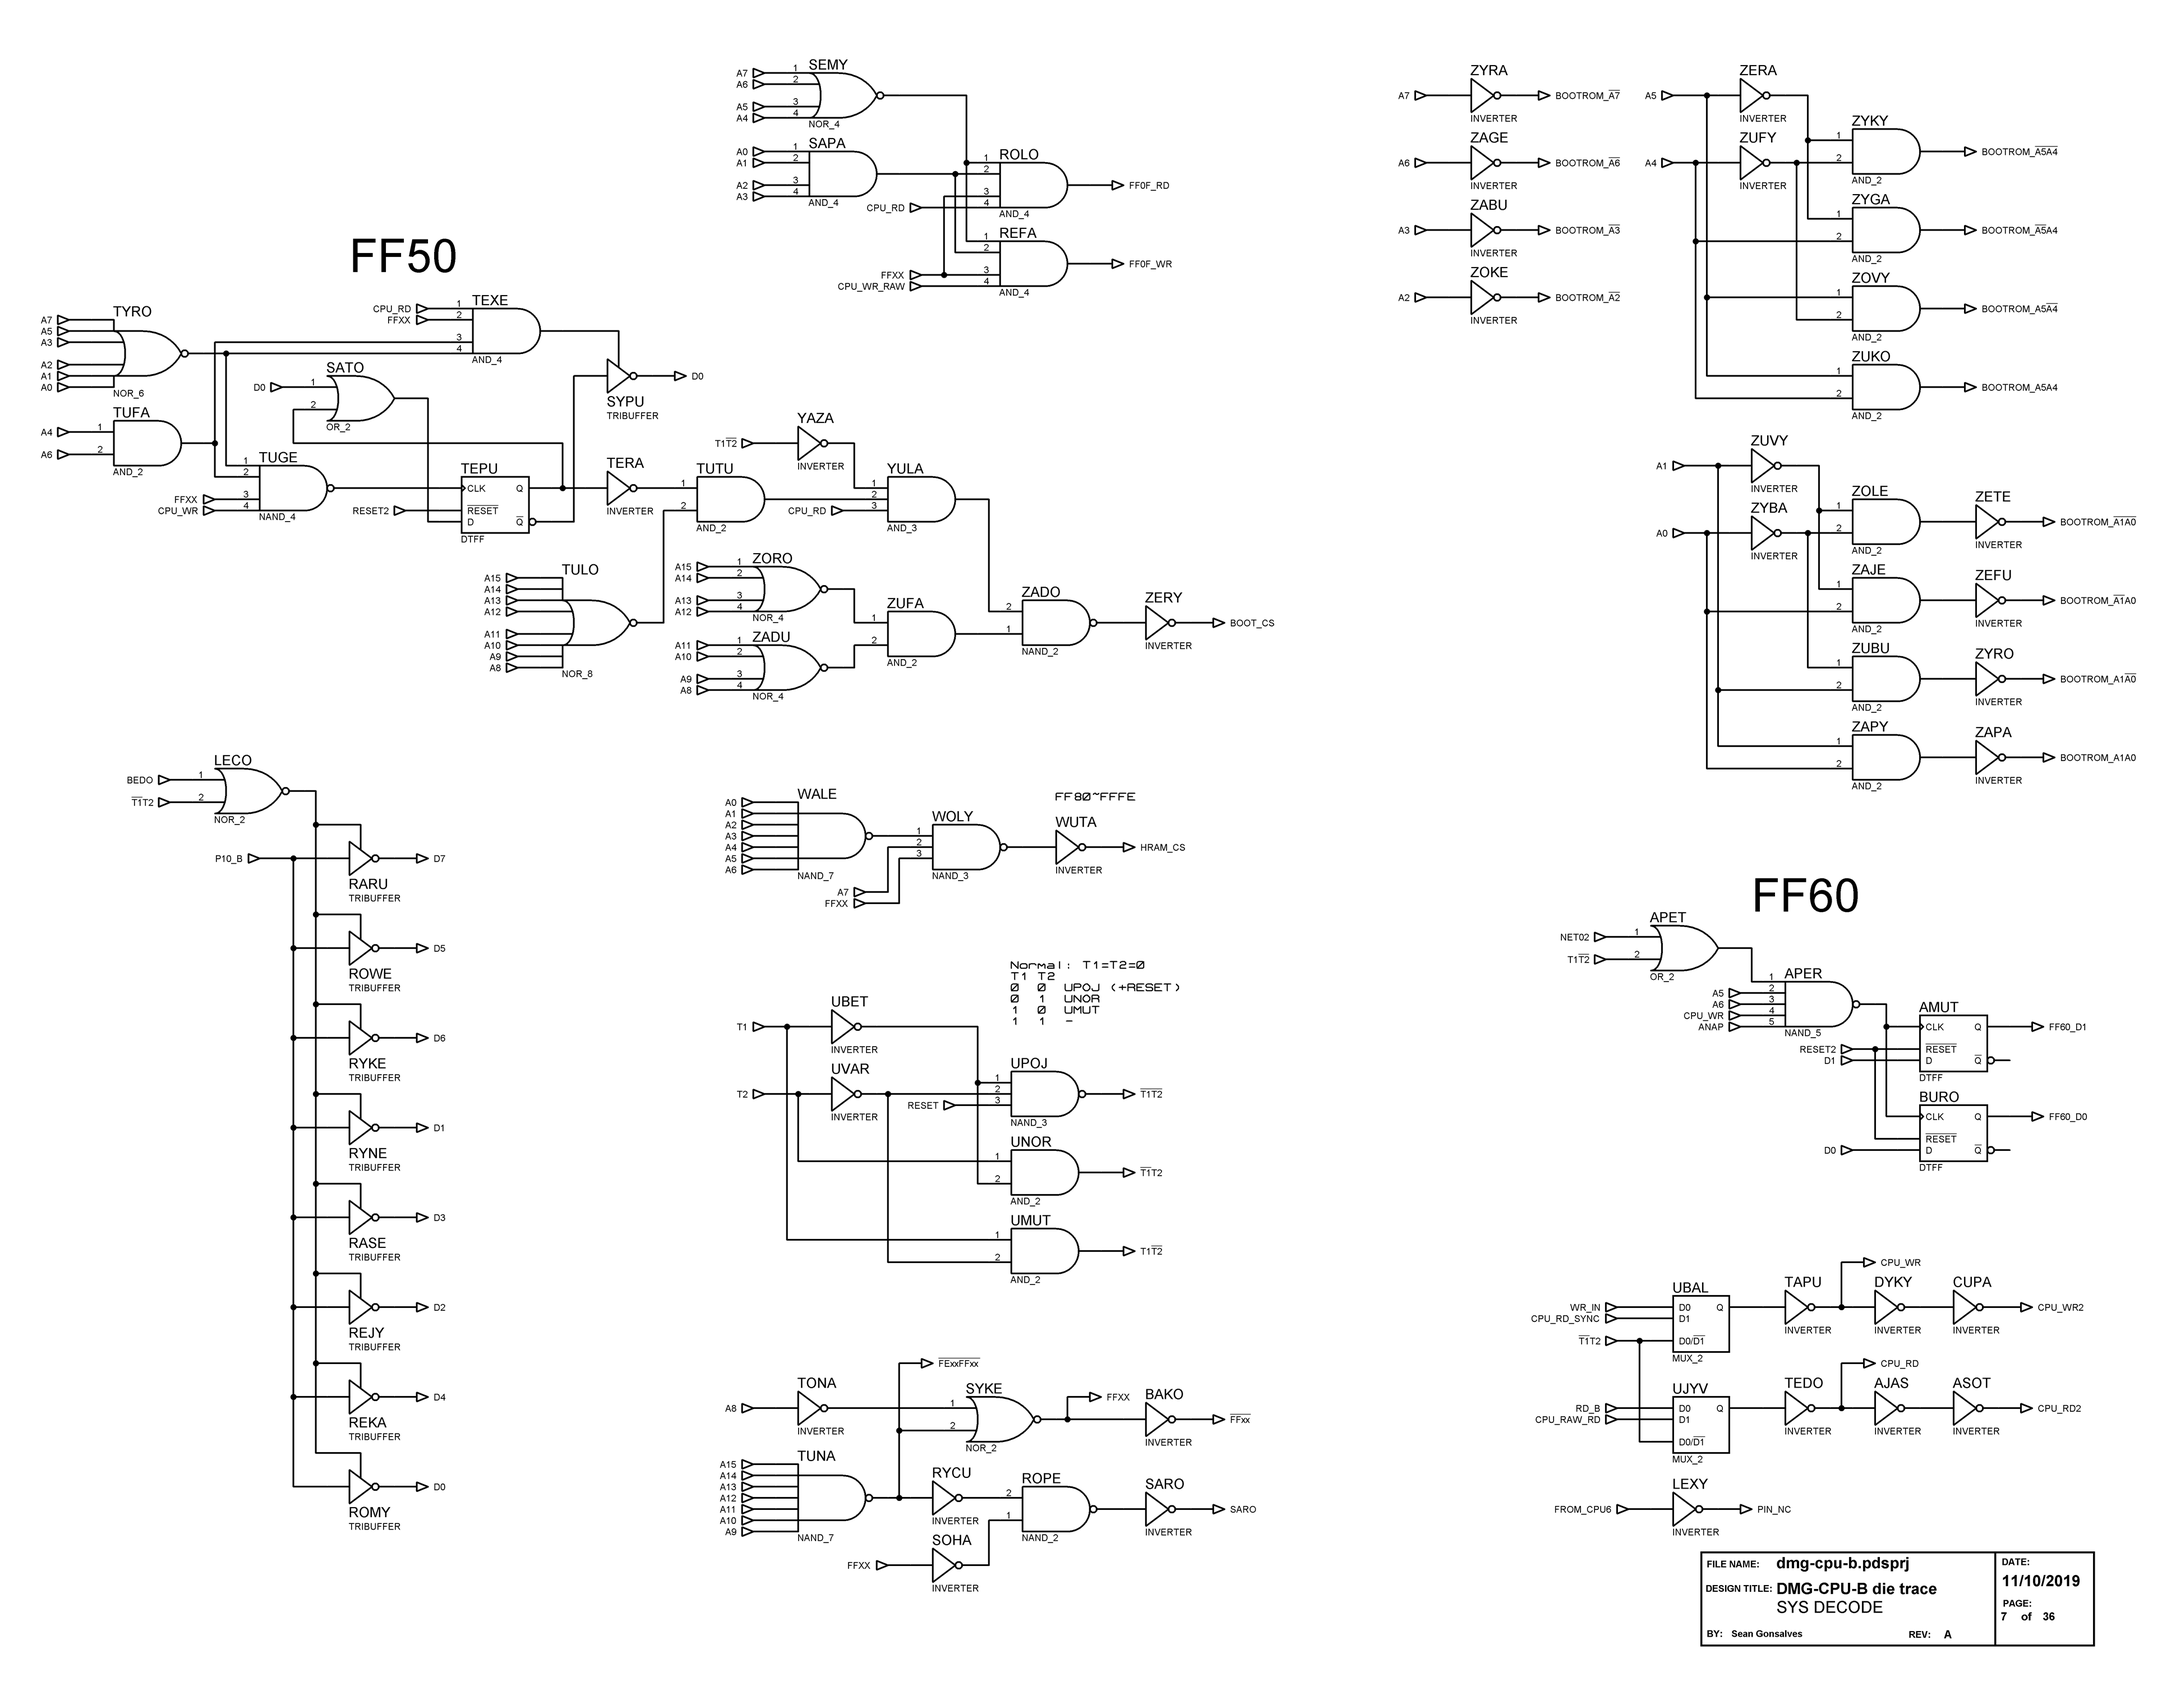
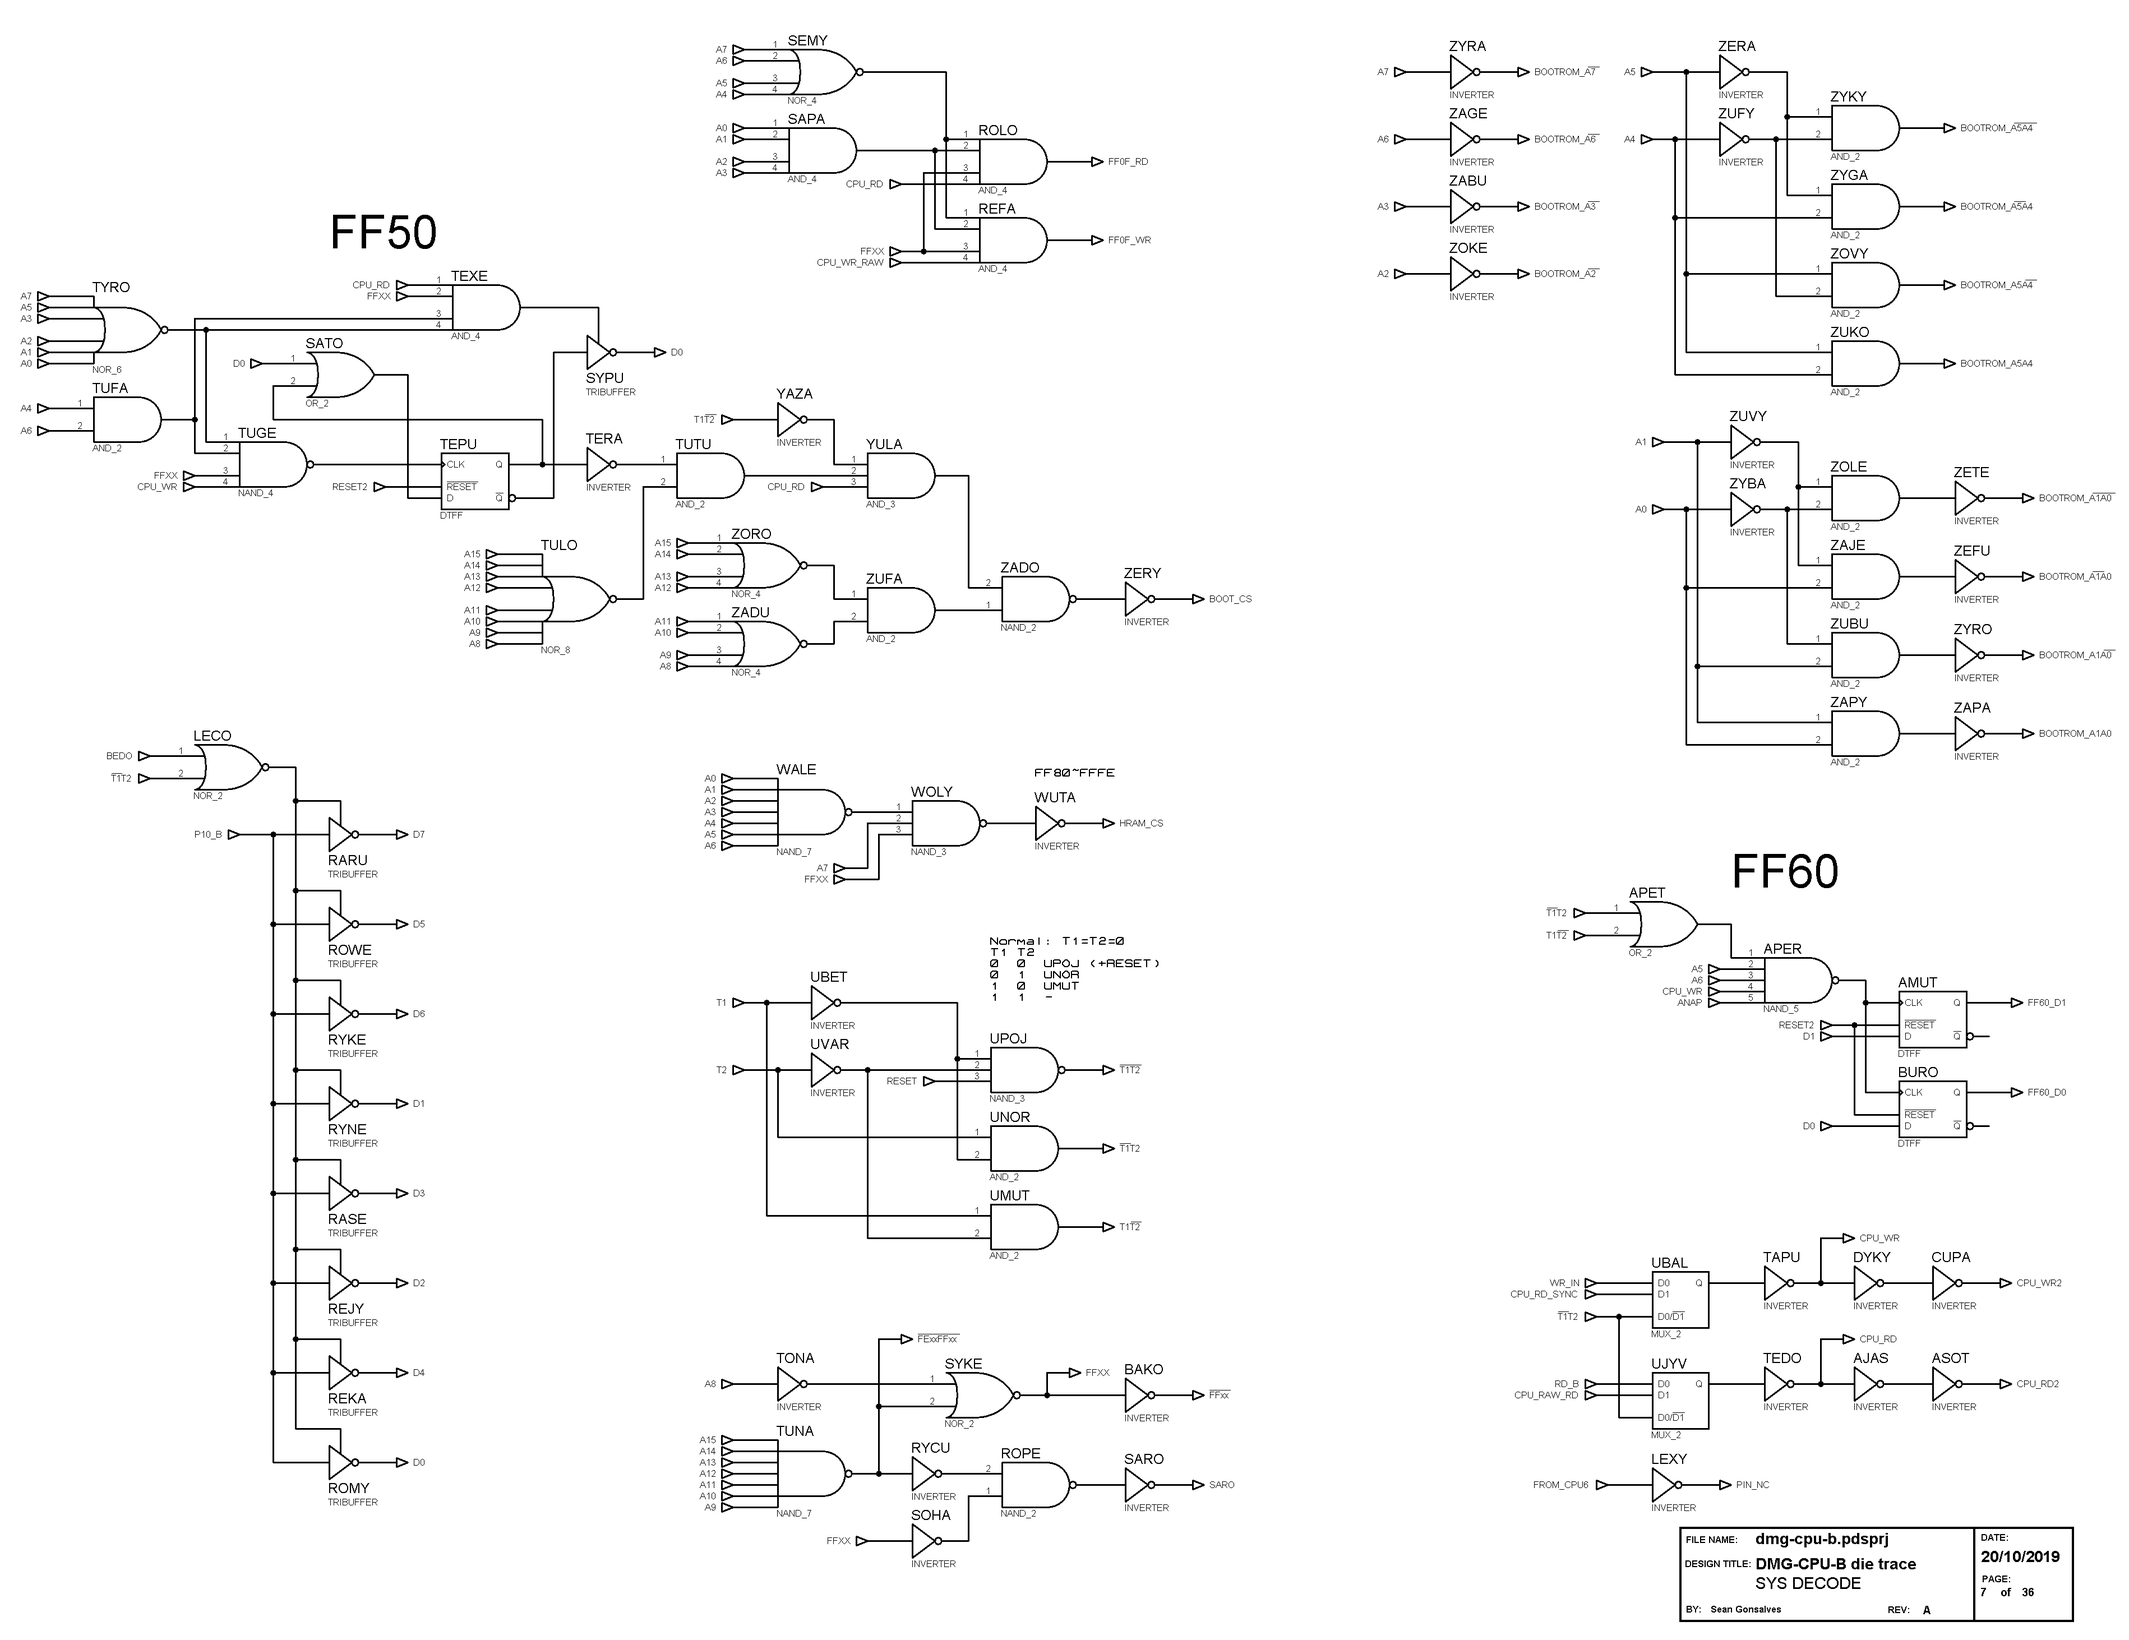
Merged NET02 with /T1 T2, thanks aappleby Renamed some nets related to interrupts Added README for cells

diff --git a/README.md b/README.md
@@ -20,20 +20,31 @@ This was done manually with only a few automated checks so **THERE'S A HIGH RISK
 * Some analog parts. Why: Poor visibility, lazyness.
 * Some cell groups related to embedded ROM and RAM blocks. Why: They don't affect functionality.
 
+# How to use
+
+Just read the schematics :)
+
+If you want to use the overlay:
+* Get [Inkscape](https://inkscape.org/)
+* Download the [die picture](http://siliconpr0n.org/map/nintendo/dmg-cpu-b/) from Digshadow
+* Resize it to 8000px wide if you're using Inkscape 0.92.2, otherwise it may freeze
+* Download the [SVG overlay](Overlay/dmg-cpu-b_overlay.zip)
+* Open the overlay in Inkscape, import the die picture (chose link, not embed), stick it under the overlay layers, align it and lock it in place
+* Have "fun"
+
 # Notes
 
-Nets named `FROM_CPU*` come out of the CPU core but are not identified. They might be state indicators like the Z80 /M1 or HALT.
+Nets named `FROM_CPU*` and `TO_CPU` are connected to the CPU core but are not clearly identified. Many of them are trigger and acknowledge signals for interrupts. Others might be state indicators like the Z80 /M1 or HALT.
 
 I'm not sure what the UNK2 and UNK3 cells are. UNK2 might be an AND or OR with higher output power. UNK3 looks like an AND or OR next to an inverter, maybe something like (A&B)|C.
 
 Some DFF clock polarities are unclear.
 
-The PISO shift registers used for the serial link and video rendering are made of chains of set-reset-capable DFFs.
-Their loading logic requires a lot of cells but don't be scared, in the end it forms something quite simple.
+The parallel-in-serial-out shift registers used for the serial link and video rendering are made of chains of set-reset-capable DFFs.
+Their loading logic require a lot of cells and seem complex, but in the end it forms something quite simple.
 
 Rather than using multiplexers, many internal busses are instead tri-state capable. The "TRIBUFFER" cells are extensively used for this.
 
-The whole chip can be made a slave for an external CPU by using the test pins. This was already discovered by @Gekkio and probably others.
 
 # Mysteries
 
@@ -42,6 +53,7 @@ The whole chip can be made a slave for an external CPU by using the test pins. T
   * Bit 5 allows software clocking of the CH1 sweep timer when NET03 is high.
 * Bit 0 of FF23 (NR44) can be read. It relates to the CH4 prescaler.
 * The current wave RAM address can be read in bits 4~0 of FF1C (NR32) when NET03 is high.
+* The whole chip can be made a slave for an external CPU by using the test pins. This was already discovered by @Gekkio and maybe others.
 * Probably other things I missed...
 
 # PAQ (Potentially Asked Questions)
@@ -50,10 +62,6 @@ The whole chip can be made a slave for an external CPU by using the test pins. T
 
 It is well known by emulator authors that the Game Boy is full of quirks. Knowing exactly how and when signals change can help reaching perfect accuracy.
 
-* Where does the die picture come from ? Where can I get it ?
-
-Digshadow imaged it, you can find it in its original form here: [die map](http://siliconpr0n.org/map/nintendo/dmg-cpu-b/)
-
 * Why are the schematics not in an editable format ?
 
 Because I used proprietary CAD software for speed and I didn't finish making the converter for the KiCAD format.
@@ -61,11 +69,11 @@ I hope to be able to do that soon.
 
 * What's up with the cell labels ?
 
-They're random, unique names. The first letter corresponds to the column.
+They're random, unique names. The first letter corresponds to the column they're in on the silicon die.
 
 * Many small lines aren't traced, why ?
 
-I didn't bother tracing branching lines when their end point was near enough to see it on my 15" screen at the zoom level I used. It's reported on the schematic, of course.
+I didn't bother tracing branching lines when their end point was near enough to see it on my 15" screen at the zoom level I used. They're reported on the schematic, of course.
 
 * Why are there copies of logic blocks providing identical functions ?
 
@@ -77,8 +85,8 @@ Until I get the files exported in KiCAD format, please open an issue and describ
 
 * How did you know which cells did what ?
 
-I had to take guesses. Inputs and outputs are easily identified and the cell size gives some clues. When connections are made on the schematic, it's pretty obvious when a guess is wrong.
-Check out the [cell zoo](cell_zoo.jpg).
+I had to take guesses. Inputs and outputs are easily identified and the cell size gives some clues. When connections are made on the schematic, it becomes quickly obvious when a guess is wrong.
+Check out the [cell zoo](Cells/cell_zoo.jpg).
 
 * How long did it take ?
 

diff --git a/Cells/README.md b/Cells/README.md
@@ -1,0 +1,34 @@
+# Cell infos
+
+A slash before a signal name means it's active low.
+
+## AND, OR, NAND, NOR
+
+They all look the same. ANDs and ORs are actually NANDs and NORs with an added inverter, so they're bigger. AND and ORs appear like mirrored copies of each other depending on the power lines order.
+
+## DFFs
+
+There are many flavors of DFF (D Flip-flop) cells used throughout the design. Most of them have a pair of complementary clock inputs.
+
+Some have /RESET inputs, some have /RESET and /SET, some only have a /Q and no Q output.
+
+## LATCH
+
+AKA transparent latch. They're similar to DFFs but they let data pass through when inactive.
+
+## COUNT
+
+Counter element. Basically a 1-bit register and a full adder.
+
+## AOI
+
+AND-OR-Invert cell. Inputs are grouped by pairs into AND gates, the outputs of which go in a NOR gate.
+Sometimes used as a multiplexer when combined with a one-hot decoder.
+
+## Adders
+
+Half adder: A+B -> S, carry in COUT.
+
+Full adder: A+B+CIN -> S, carry in COUT.
+
+The half adders are used for the first bit in adder chains, as there is no carry in.
